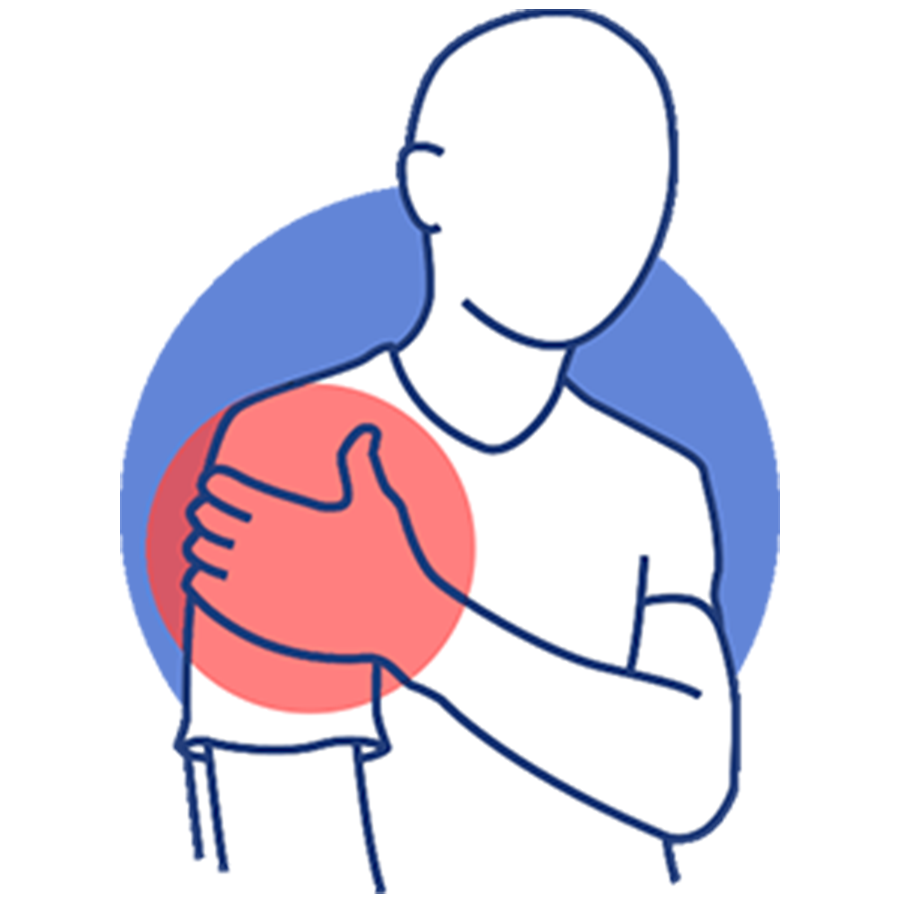
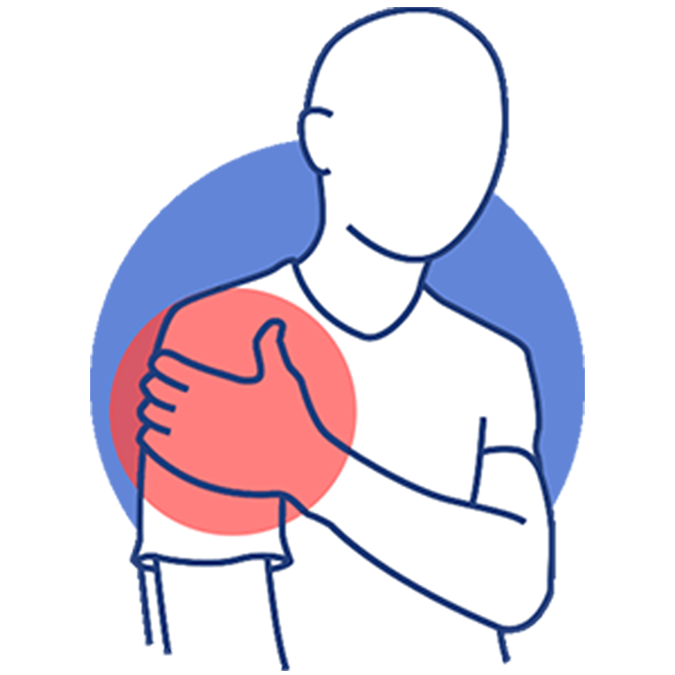
update img

diff --git a/lib/data/screening-data/screening_q_part_two_model.dart b/lib/data/screening-data/screening_q_part_two_model.dart
@@ -15,35 +15,35 @@ class ScreeningPartTwoSelectPart {
   static List<ScreeningPartTwoSelectPart> getTitleQPage() => [
         ScreeningPartTwoSelectPart(
           title: "คอ",
-          assetPath: 'lib/assets/images/screeningPart/neck.png',
+          assetPath: 'lib/assets/images/screeningPart/select_pain_1.png',
           questionPage: [1, 2, 3, 4, 5],
           questionType: "a",
           partOrder: 0,
         ),
         ScreeningPartTwoSelectPart(
           title: "บ่า",
-          assetPath: 'lib/assets/images/screeningPart/scapular.png',
+          assetPath: 'lib/assets/images/screeningPart/select_pain_2.png',
           questionPage: [1, 2, 3],
           questionType: "b",
           partOrder: 1,
         ),
         ScreeningPartTwoSelectPart(
           title: "ไหล่",
-          assetPath: 'lib/assets/images/screeningPart/shoulder.png',
+          assetPath: 'lib/assets/images/screeningPart/select_pain_3.png',
           questionPage: [1, 2, 3],
           questionType: "b",
           partOrder: 2,
         ),
         ScreeningPartTwoSelectPart(
           title: "หลังส่วนบน",
-          assetPath: 'lib/assets/images/screeningPart/upper_back.png',
+          assetPath: 'lib/assets/images/screeningPart/select_pain_4.png',
           questionPage: [1, 2],
           questionType: "a",
           partOrder: 3,
         ),
         ScreeningPartTwoSelectPart(
           title: "หลังส่วนล่าง",
-          assetPath: 'lib/assets/images/screeningPart/lower_back.png',
+          assetPath: 'lib/assets/images/screeningPart/select_pain_5.png',
           questionPage: [1, 2],
           questionType: "a",
           partOrder: 4,

diff --git a/lib/Widgets/screening-widget/typepain_container.dart b/lib/Widgets/screening-widget/typepain_container.dart
@@ -1,4 +1,5 @@
 import 'package:flutter/material.dart';
+import 'package:unwind_app/Widgets/ratio_imageone_to_one.dart';
 import 'package:unwind_app/Widgets/responsive_check_widget.dart';
 
 class TypepainContainer extends StatelessWidget {
@@ -44,14 +45,12 @@ class TypepainContainer extends StatelessWidget {
                     )
                   : Theme.of(context).textTheme.bodySmall,
             ),
-            Container(
-              width: 60,
-              height: 60,
-              alignment: Alignment.center,
-              decoration: BoxDecoration(
-                  image: DecorationImage(
-                      image: AssetImage(assetName), fit: BoxFit.cover)),
-            ),
+            RatioImageoneToOne(
+                assetName: assetName,
+                smallWidth: 50,
+                largeWidth: 60,
+                smallHeight: 50,
+                largeHeight: 60)
           ],
         ),
       ),

diff --git a/lib/Widgets/ratio_imageone_to_one.dart b/lib/Widgets/ratio_imageone_to_one.dart
@@ -42,7 +42,7 @@ class RatioImageoneToOne extends StatelessWidget {
           decoration: BoxDecoration(
             image: DecorationImage(
               image: AssetImage(assetName),
-              fit: BoxFit.fill,
+              fit: BoxFit.contain,
             ),
           ),
         ),
